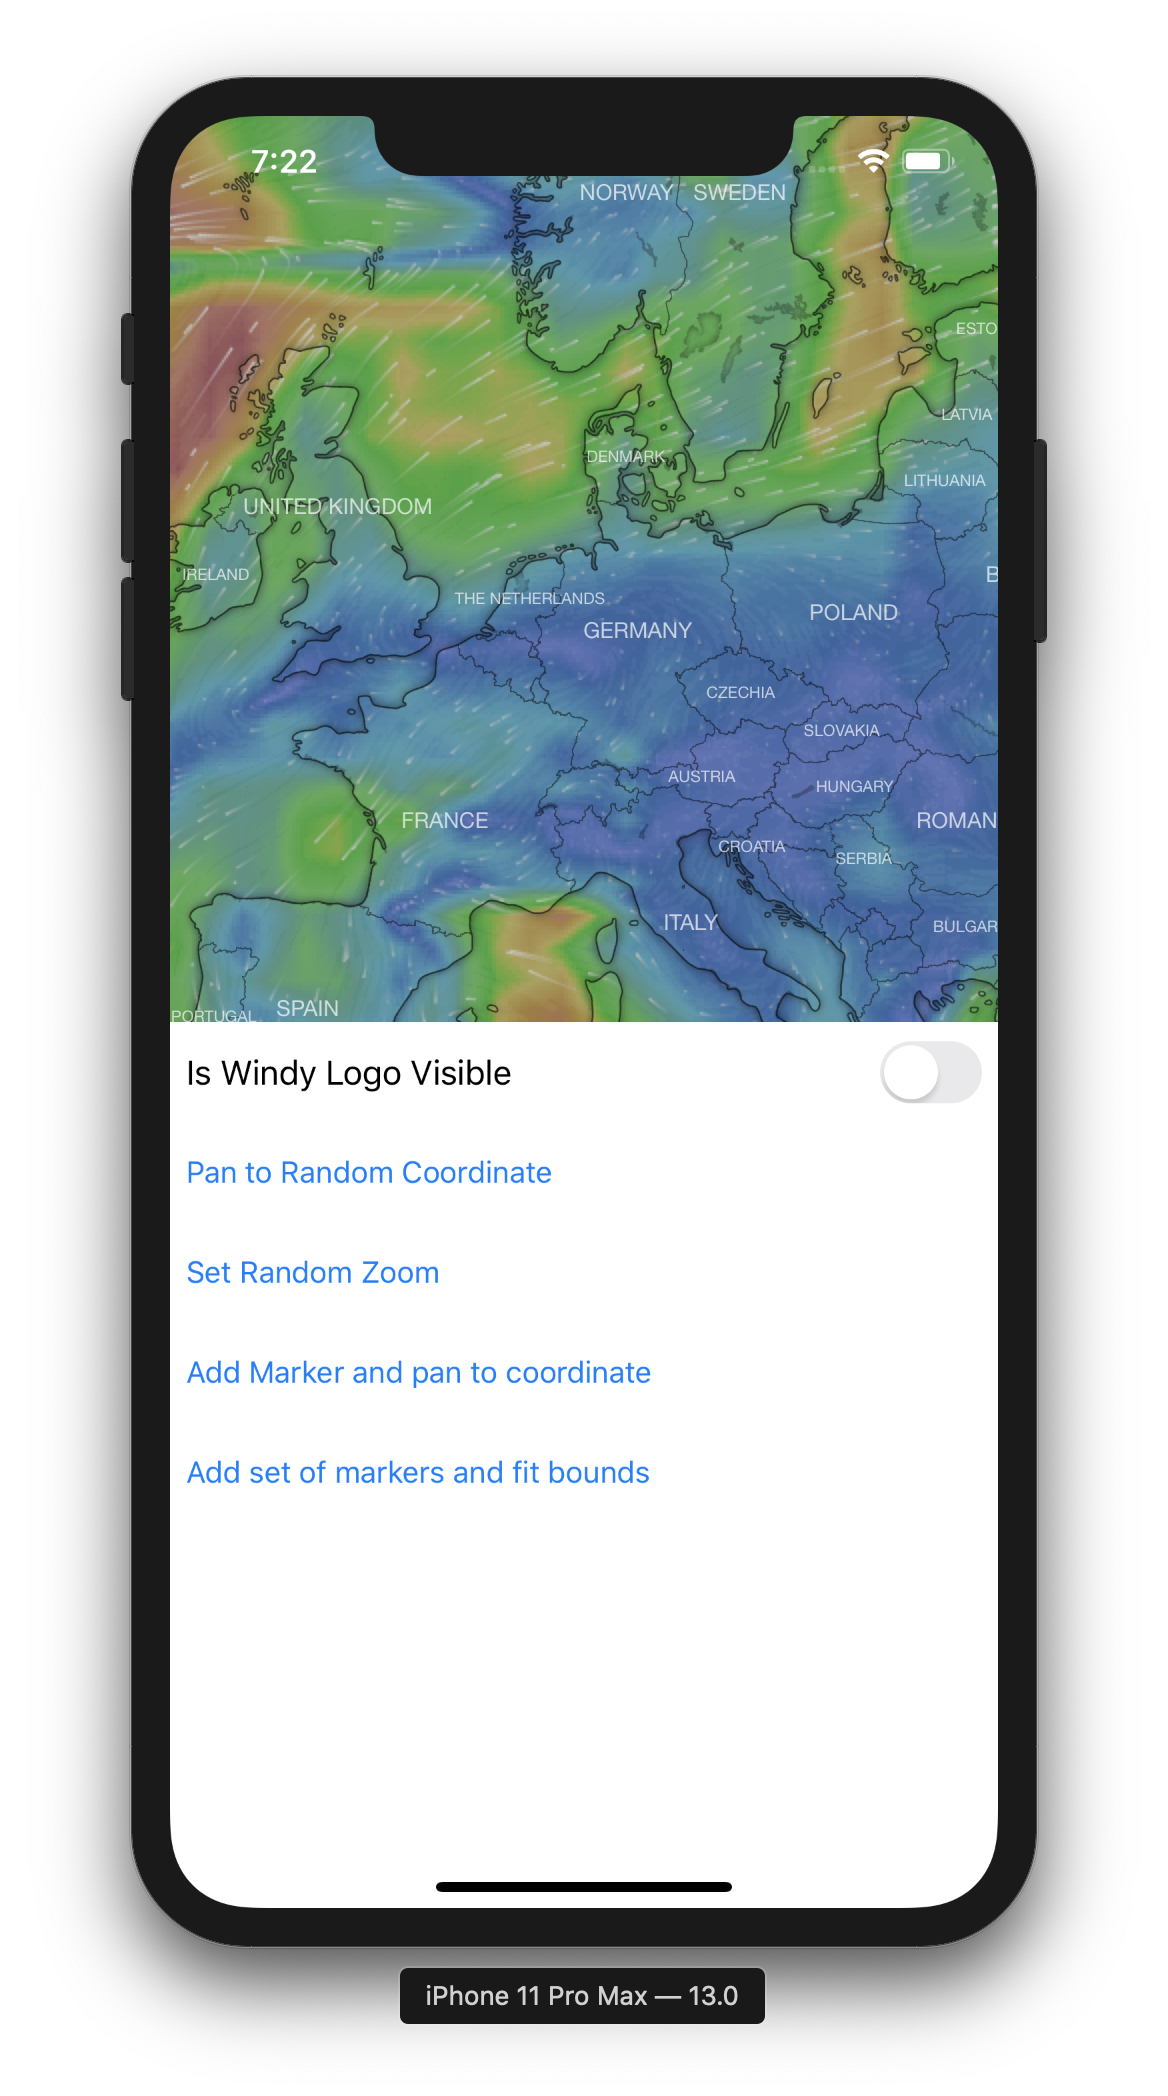
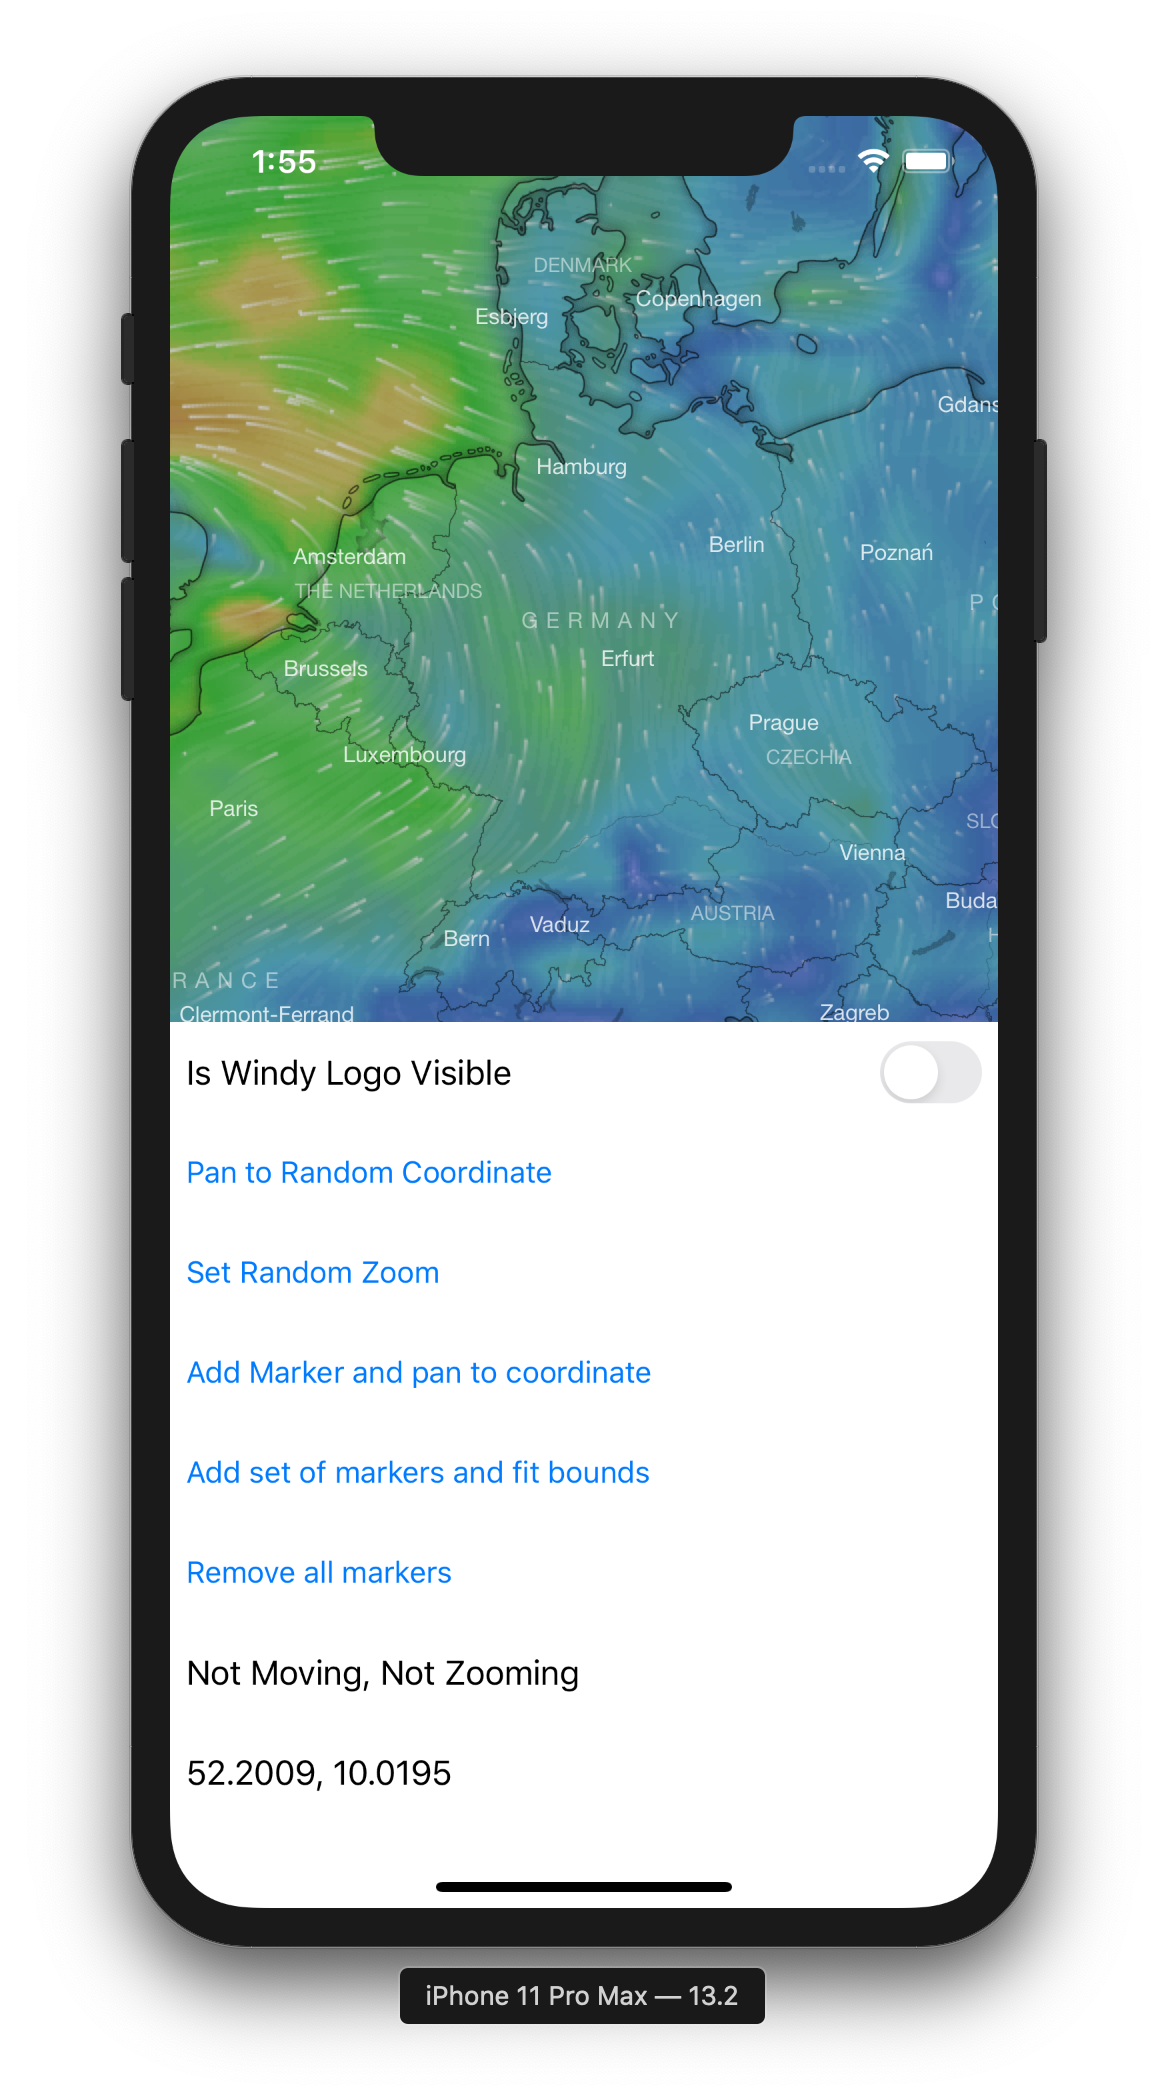
Add Docs

diff --git a/Sources/WindySwift/WindyMapView.swift b/Sources/WindySwift/WindyMapView.swift
@@ -120,6 +120,10 @@ public struct WindyZoomPanOptions: Codable {
         self.noMoveStart = noMoveStart
     }
 
+    public static func animate(_ animate: Bool) -> WindyZoomPanOptions {
+        return WindyZoomPanOptions(animate: animate)
+    }
+
 }
 
 extension WindyMapView {
@@ -192,7 +196,6 @@ extension WindyMapView {
     public func getCenter(closure: @escaping (CLLocationCoordinate2D?) -> Void) {
         let javascript = """
         globalMap.getCenter();
-        0;
         """
         webView.evaluateJavaScript(javascript) { (result, error) in
             guard let windyCoordinate: WindyCoordinates = self.decodedJavaScriptObject(any: result) else {
@@ -238,7 +241,28 @@ extension WindyMapView {
 
     private func handleMarkerClick(uuid: UUID) {
         guard let annotationView = annotationViews.first(where: { $0.annotation.uuid == uuid }) else { return }
-        print("click annotation: \(annotationView)")
+        delegate?.windyMapView(self, didSelect: annotationView)
+    }
+
+    /// Converts annotation to center point
+    public func convert(_ annotation: WindyMapAnnotation, closure: @escaping (CGPoint?) -> Void) {
+        guard annotations.contains(annotation) else {
+            closure(nil)
+            return
+        }
+
+        let javascript = """
+        var marker = markers["\(annotation.uuid.uuidString)"];
+        if (marker) {
+            globalMap.latLngToContainerPoint(marker.getLatLng());
+        } else {
+            0;
+        }
+        """
+
+        webView.evaluateJavaScript(javascript) { (result, error) in
+            closure((self.decodedJavaScriptObject(any: result) as WindyPoint?)?.point())
+        }
     }
 
 }

diff --git a/Sources/WindySwift/WindyHTML.swift b/Sources/WindySwift/WindyHTML.swift
@@ -8,7 +8,10 @@
 
 
 import Foundation
+import CoreGraphics
 
+
+// MARK: - WindyInitOptions
 
 public struct WindyInitOptions: Codable {
 
@@ -32,6 +35,7 @@ public struct WindyInitOptions: Codable {
 
 }
 
+// MARK: - WindyCoordinates
 
 internal struct WindyCoordinates: Codable {
 
@@ -40,11 +44,14 @@ internal struct WindyCoordinates: Codable {
 
 }
 
+// MARK: - WindyEventContent
 
 internal struct WindyEventContent: Codable {
 
     let name: EventName
     let options: Options
+
+    // MARK: EventName
 
     enum EventName: String, Codable {
 
@@ -61,6 +68,8 @@ internal struct WindyEventContent: Codable {
         case markerclick
 
     }
+
+    // MARK: Options
 
     struct Options: Codable {
 
@@ -90,6 +99,20 @@ internal struct WindyEventContent: Codable {
 
 }
 
+// MARK: - Windy Point
+
+internal struct WindyPoint: Codable {
+
+    let x: Double
+    let y: Double
+
+    func point() -> CGPoint {
+        return CGPoint(x: x, y: y)
+    }
+
+}
+
+// MARK: - Index HTML
 
 internal struct WindyHTML {
 

diff --git a/Sources/WindySwift/WindyMapViewDelegate.swift b/Sources/WindySwift/WindyMapViewDelegate.swift
@@ -25,6 +25,8 @@ public protocol WindyMapViewDelegate: class {
 
     func windyMapView(_ windyMapView: WindyMapView, viewFor: WindyMapAnnotation) -> WindyMapAnnotationView?
 
+    func windyMapView(_ windyMapView: WindyMapView, didSelect annotationView: WindyMapAnnotationView)
+
 }
 
 
@@ -44,5 +46,7 @@ public extension WindyMapViewDelegate {
     func windyMapView(_ windyMapView: WindyMapView, viewFor: WindyMapAnnotation) -> WindyMapAnnotationView? {
         return nil
     }
+
+    func windyMapView(_ windyMapView: WindyMapView, didSelect annotationView: WindyMapAnnotationView) { }
 
 }

diff --git a/README.md b/README.md
@@ -1,7 +1,173 @@
 # WindySwift
 
-**WORK IN PROGRESS**
+![Swift Version](https://img.shields.io/badge/Swift-5.1.2-orange.svg)
+![PackageManager](https://img.shields.io/badge/PackageManager-SPM-brightgreen.svg?style=flat)
+![Platforms](https://img.shields.io/badge/Platforms-iOS|macOS-yellow.svg?style=flat)
+[![License](https://img.shields.io/badge/License-MIT-green.svg?style=flat)](https://github.com/thepeaklab/WindySwift/blob/master/LICENSE)
+[![Twitter: @thepeaklab](https://img.shields.io/badge/contact-@thepeaklab-009fee.svg?style=flat)](https://twitter.com/thepeaklab)
 
-`WindySwift` is a Swift wrapper for [Windy.com](https://www.windy).
+`WindySwift` is a wrapper for [windy.com](https://www.windy.com) written in Swift for the iOS and macOS platform.
 
-<img src="Assets/Screenshot.png" width="500px">
+<img src="Assets/Screenshot.png" width="400px">
+
+## Usage
+
+- Add `WindySwift` Swift Package to Xcode
+- Add a `UIView` to your Storyboard and change the class to `WindyMapView`.
+
+<img src="Assets/Setup_1.png">
+
+- Create an `@IBOutlet` in your ViewController
+
+```swift
+@IBOutlet var mapView: WindyMapView!
+```
+
+- Initialize your `WindyMapView` in `viewDidLoad()`
+
+```swift
+override func viewDidLoad() {
+    super.viewDidLoad()
+
+    mapView.delegate = self
+    mapView.initialize(options: WindyInitOptions(key: "<YOUR Windy Key>",
+                                                 lat: 53.1392144,
+                                                 lon: 8.2057949,
+                                                 zoom: 6))
+
+}
+```
+
+### Region
+
+#### Move center to coordinate
+
+```swift
+let randomLat = Double.random(in: 47...53)
+let randomLng = Double.random(in: 7...12)
+let coordinate = CLLocationCoordinate2D(latitude: randomLat, longitude: randomLng)
+mapView.panTo(coordinate: coordinate, options: .animate(true))
+```
+
+#### Change zoom level
+
+```swift
+let zoomLevel = Int.random(in: 0...20)
+mapView.setZoom(zoom: zoomLevel, options: .animate(true))
+```
+
+#### Fit Bounds
+
+Fit the the map, to that a list of coordinates are visible.
+
+```swift
+let coordinates = [
+    CLLocationCoordinate2D(latitude: 53.528740, longitude: 8.452565),
+    CLLocationCoordinate2D(latitude: 53.505438, longitude: 8.476923),
+    CLLocationCoordinate2D(latitude: 53.488712, longitude: 8.410969),
+    CLLocationCoordinate2D(latitude: 53.456613, longitude: 8.477863),
+    CLLocationCoordinate2D(latitude: 53.449079, longitude: 8.425022),
+    CLLocationCoordinate2D(latitude: 53.415919, longitude: 8.468630),
+    CLLocationCoordinate2D(latitude: 53.406520, longitude: 8.394845)
+]
+mapView.fitBounds(coordinates: coordinates)
+```
+
+#### Get current map center coordinate
+
+```swift
+mapView.getCenter { coordinate in
+    guard let coordinate = coordinate else {
+        print("no center")
+        return
+    }
+    print("center is at \(coordinate)")
+}
+```
+
+#### Annotations
+
+- Subclass `WindyMapAnnotation` to create custom annotation.
+
+```swift
+class CustomAnnotation: WindyMapAnnotation {
+
+    init(coordinate: CLLocationCoordinate2D) {
+        let mapIconRoratePath = Bundle.main.path(forResource: "sample", ofType: "gif")!
+        super.init(coordinate: coordinate, icon: WindyIcon(icon: .url(url: mapIconRoratePath)))
+    }
+
+}
+```
+
+- Add Annotation
+
+```swift
+let coordinate = CLLocationCoordinate2D(latitude: 53.141063, longitude: 8.230920)
+let annotation = RotateWindyAnnotation(coordinate: coordinate)
+mapView.addAnnotation(annotation)
+// or add multiple using addAnnotations(_ annotations: [WindyMapAnnotation])
+```
+
+- Implement Delegate
+
+```swift
+extension ViewController: WindyMapViewDelegate {
+
+    func windyMapView(_ windyMapView: WindyMapView, viewFor annotation: WindyMapAnnotation) -> WindyMapAnnotationView? {
+        switch annotation {
+        case let customAnnotation as CustomAnnotation:
+            let annotationView = WindyMapAnnotationView(annotation: customAnnotation, icon: customAnnotation.icon)
+            return annotationView
+        default:
+            return nil
+        }
+    }
+
+}
+```
+
+- Remove Annotation
+
+```swift
+// remove all annotations
+mapView.removeAnnotations(mapView.annotations)
+
+// or remove single annotation
+removeAnnotation(_ annotation: WindyMapAnnotation)
+```
+
+- Convert annotation to center point (point center, not coordinate center)
+
+```swift
+windyMapView.convert(annotation) { point in
+    print("annotation is at \(point)")
+}
+```
+
+### WindyMapViewDelegate
+
+```swift
+func windyMapViewZoomDidInitialize(_ windyMapView: WindyMapView)
+
+func windyMapViewZoomDidStart(_ windyMapView: WindyMapView)
+func windyMapViewZoomDidEnd(_ windyMapView: WindyMapView)
+
+func windyMapViewMoveDidStart(_ windyMapView: WindyMapView)
+func windyMapViewMoveDidEnd(_ windyMapView: WindyMapView)
+
+func windyMapViewDidZoom(_ windyMapView: WindyMapView)
+func windyMapViewDidMove(_ windyMapView: WindyMapView)
+
+func windyMapView(_ windyMapView: WindyMapView, viewFor: WindyMapAnnotation) -> WindyMapAnnotationView?
+
+func windyMapView(_ windyMapView: WindyMapView, didSelect annotationView: WindyMapAnnotationView)
+```
+
+## Need Help?
+
+Please [submit an issue](https://github.com/thepeaklab/WindySwift/issues) on GitHub.
+
+## License
+
+This project is licensed under the terms of the MIT license. See the [LICENSE](LICENSE) file.
